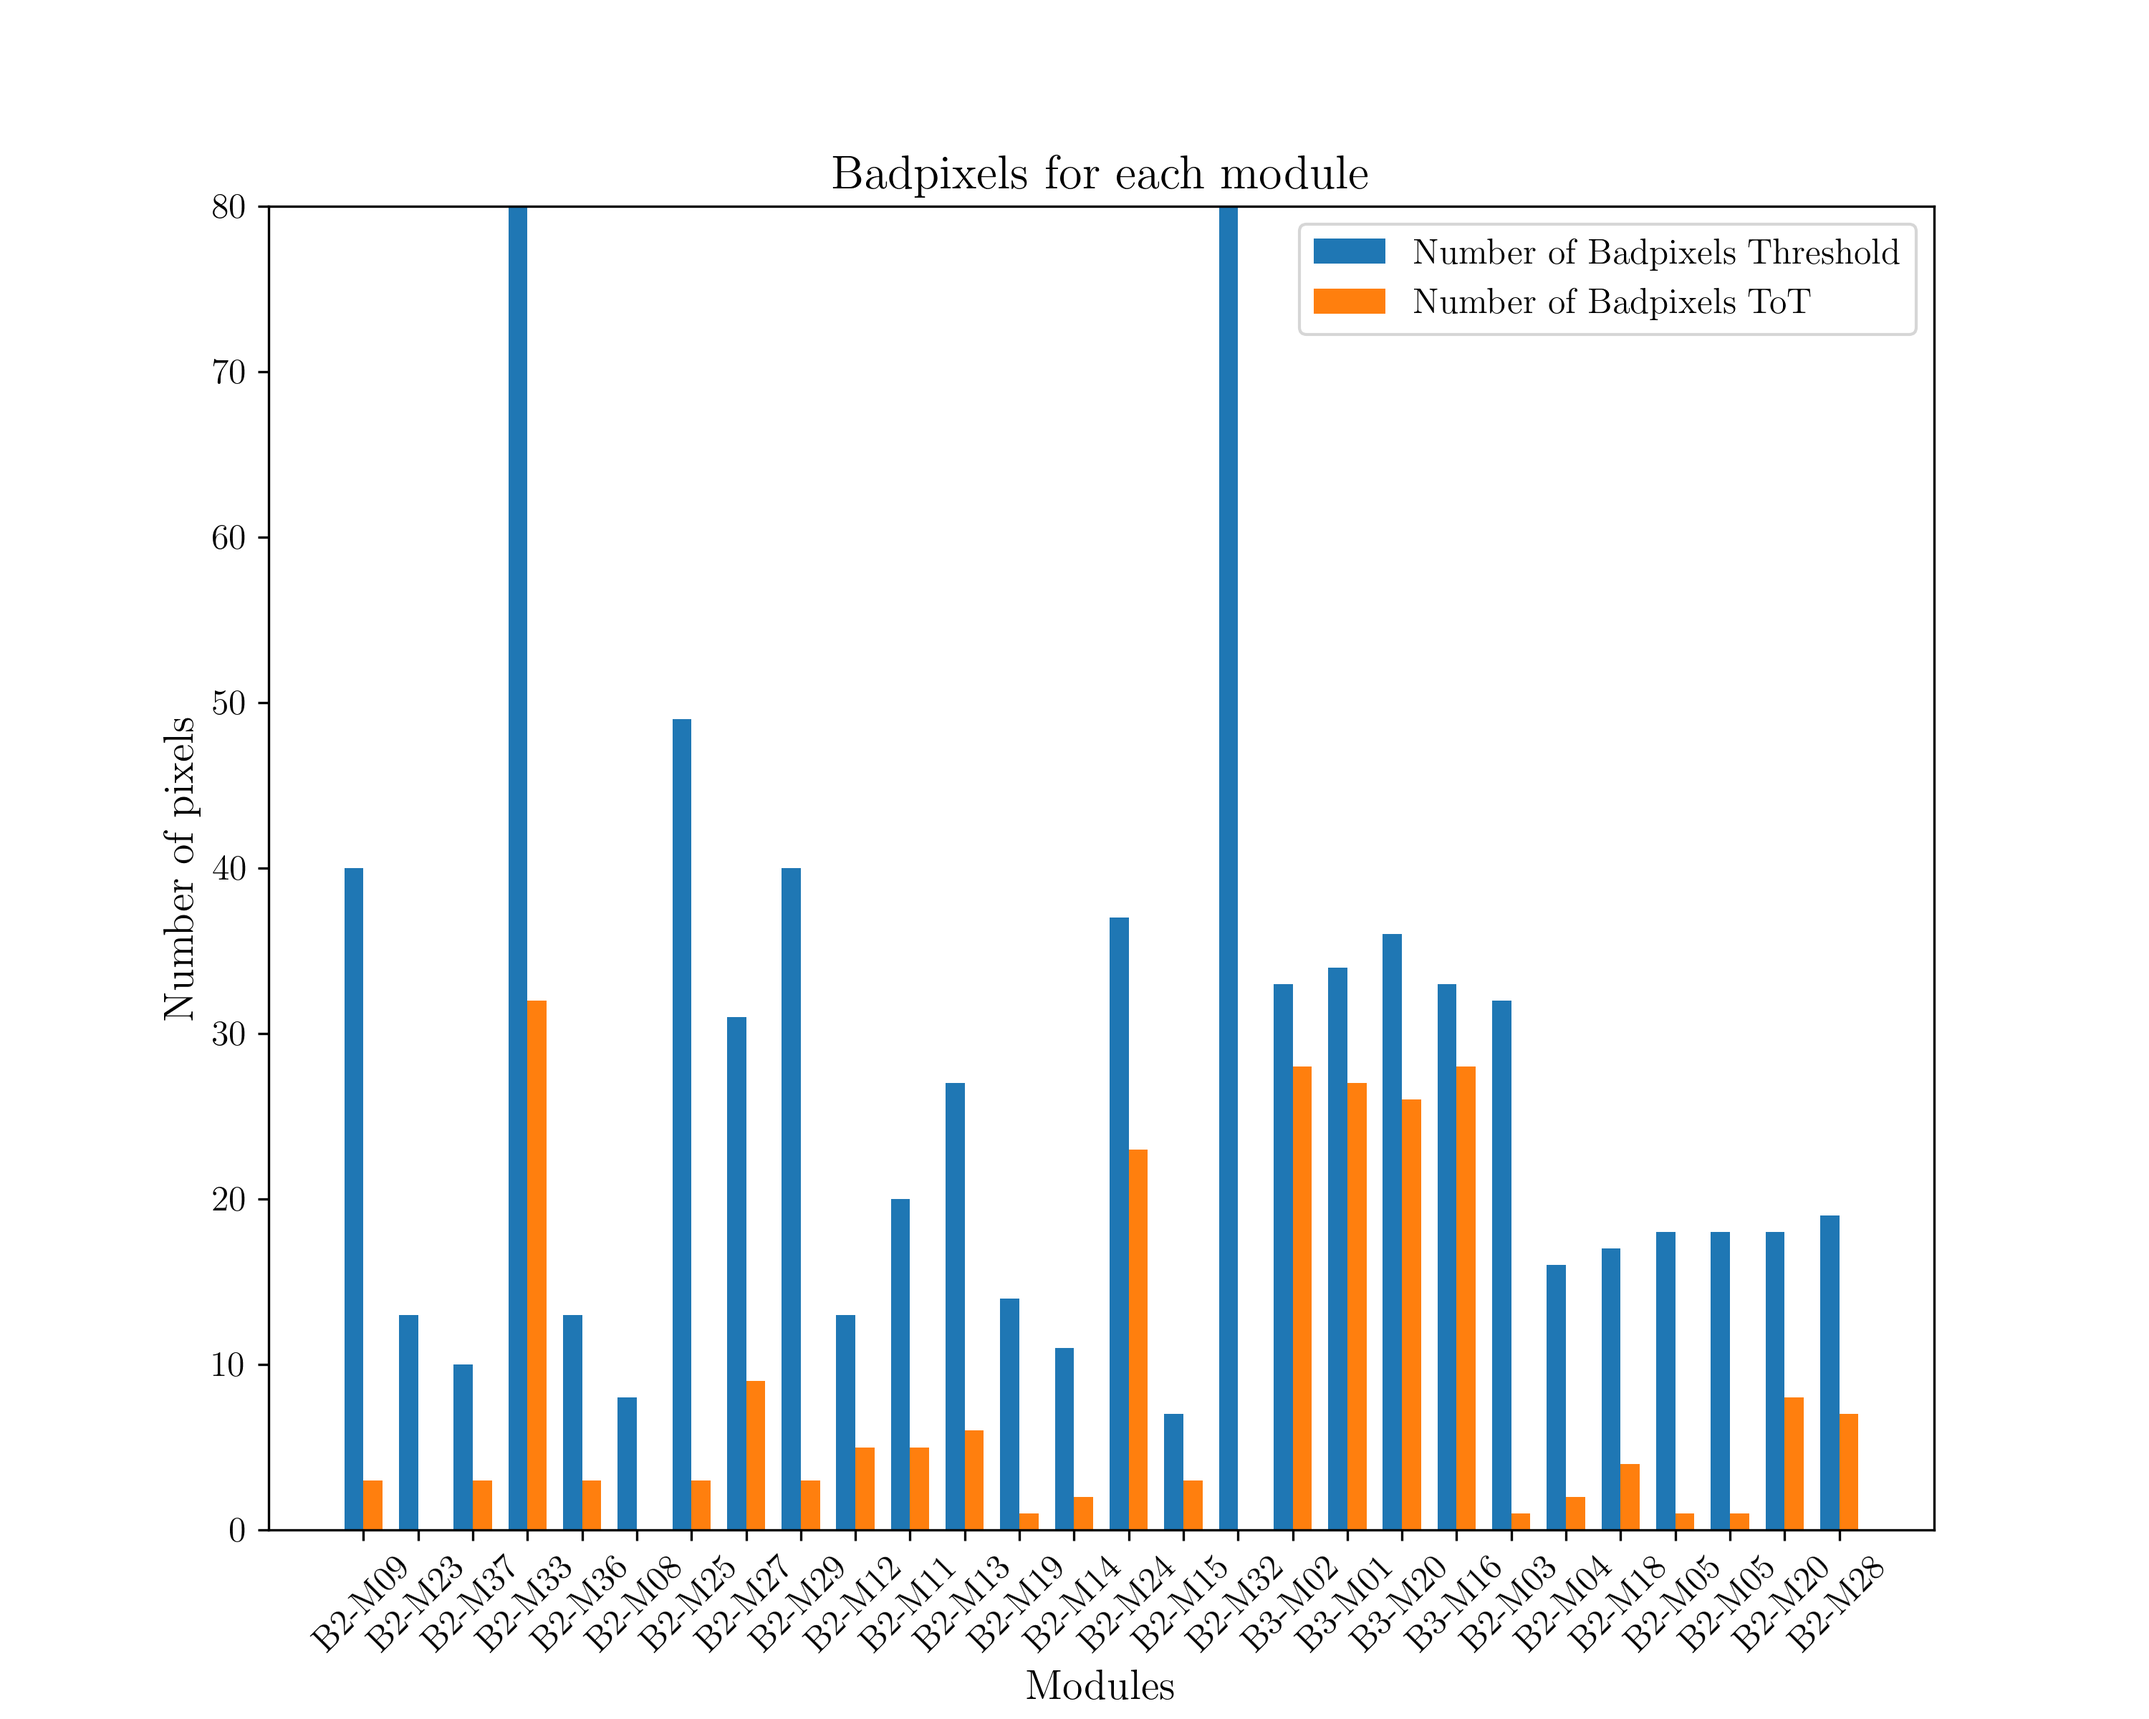
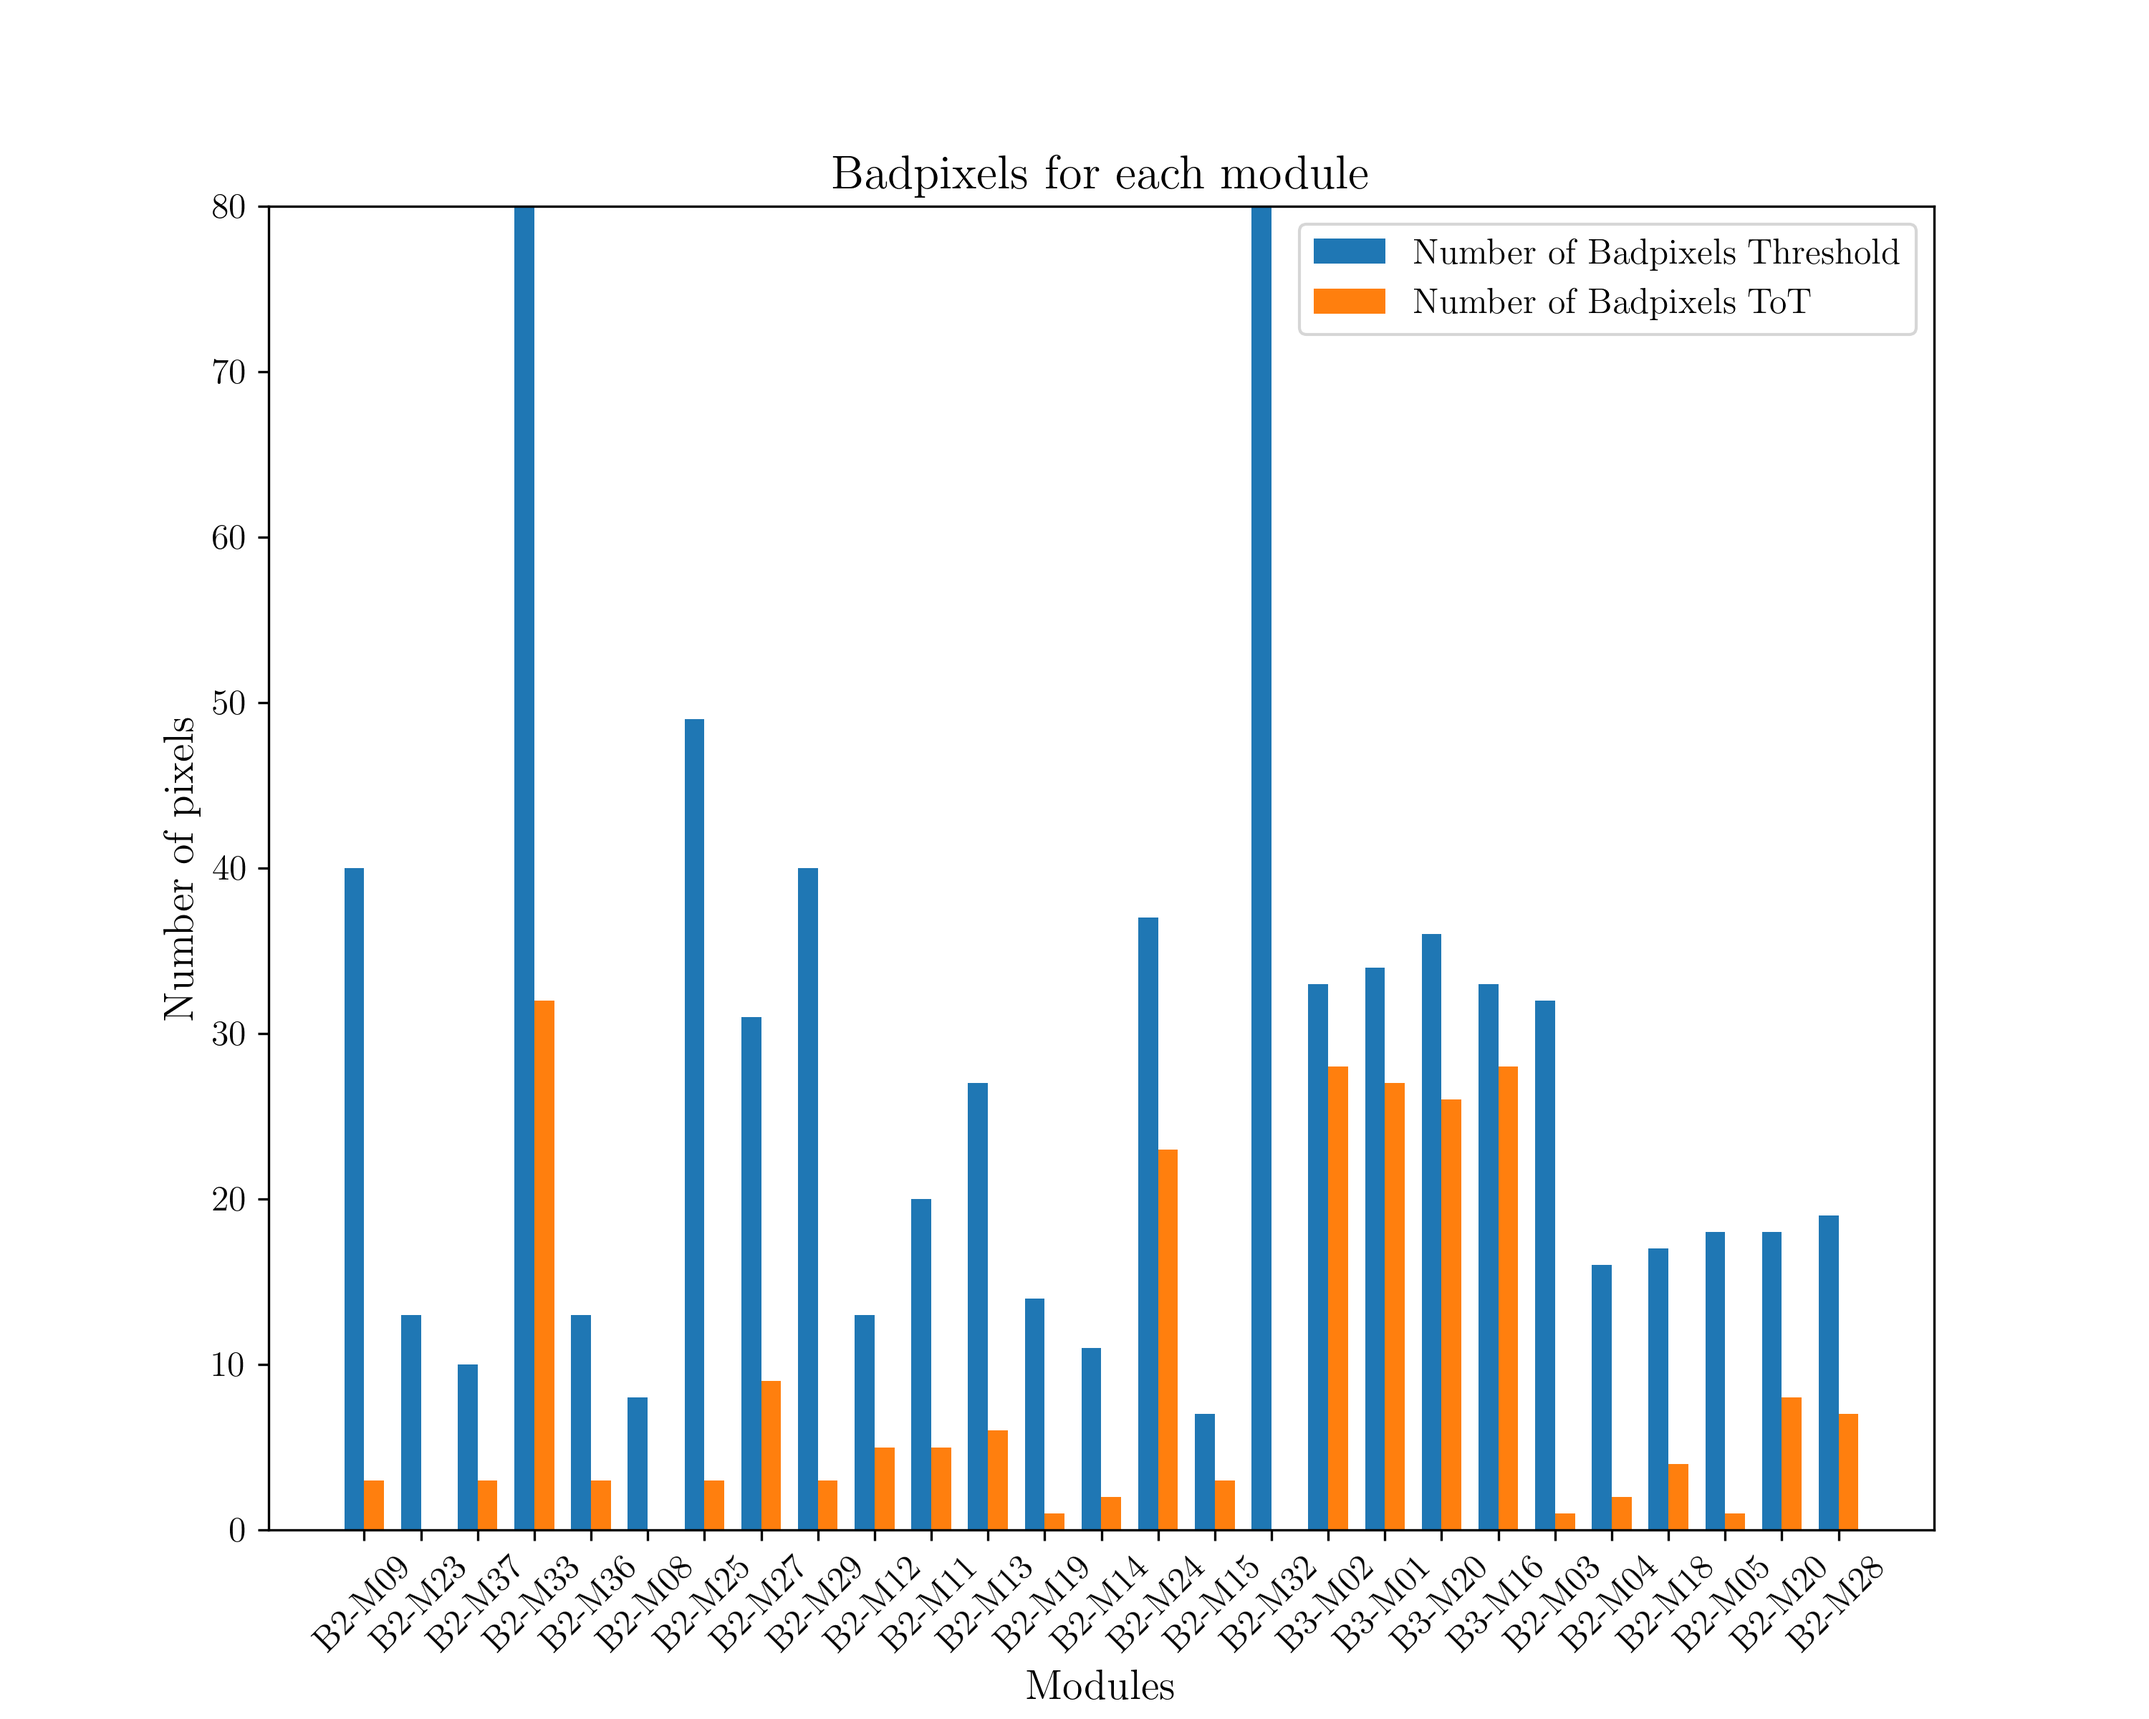
Changed ploting functions, now you can sort chips and plot them in the same order

Changed region(s): [[0.155, 0.125, 0.868, 0.9688]]

diff --git a/sitgui/anlysis_scripts/group_bad_pixles.py b/sitgui/anlysis_scripts/group_bad_pixles.py
@@ -1,0 +1,56 @@
+import matplotlib.pyplot as plt
+import pandas as pd
+import numpy as np
+
+# Read chip names from file
+with open('chips.txt', 'r') as f:
+    chip_names = [line.strip() for line in f.readlines()]
+
+# Use latex font
+plt.rc('text', usetex=True)
+plt.rc('font', family='serif')
+
+# Create a larger figure
+fig, ax = plt.subplots(figsize=(10, 8))
+
+# Initialize lists to hold the data
+value1 = []
+value2 = []
+
+# Loop over chip names and gather data
+for chip in chip_names:
+    # Read specific lines for the chip
+    with open(f'../SiT_testing/{chip}_ANLYSIS/stats_{chip}.txt', 'r') as f:
+        lines = f.readlines()
+        value1.append(float(lines[4].split(":")[1].strip()))  # Assuming that "line 4" means index 3 in Python
+        value2.append(float(lines[9].split(":")[1].strip()))  # Assuming that "line 8" means index 7 in Python
+
+# Define bar width
+bar_width = 0.35
+index = np.arange(len(chip_names))
+
+# Add bars for value 1 and value 2
+bar1 = ax.bar(index, value1, bar_width, label='Number of Badpixels Threshold')
+bar2 = ax.bar(index + bar_width, value2, bar_width, label='Number of Badpixels ToT')
+
+# Add labels and title
+ax.set_xlabel('Modules', fontsize=14)
+ax.set_ylabel('Number of pixels', fontsize=14)
+ax.set_title('Badpixels for each module', fontsize=16)
+
+# Set Y-axis limit
+ax.set_ylim([0, 80])  # adjust as necessary
+
+# Add xticks - on the 'index' position, we place the corresponding chip name
+ax.set_xticks(index + bar_width / 2)
+ax.set_xticklabels(chip_names, rotation=45)
+
+# Add legend
+ax.legend(fontsize=12)
+
+# Increase tick label size
+ax.tick_params(axis='both', which='major', labelsize=12)
+
+# Save figure
+plt.savefig('../SiT_testing/all_modules_anlysis/sensor_badpixels_values.png', dpi=300)
+

diff --git a/sitgui/anlysis_scripts/group_iv.py b/sitgui/anlysis_scripts/group_iv.py
@@ -1,0 +1,52 @@
+import matplotlib.pyplot as plt
+import pandas as pd
+import numpy as np
+
+# Read chip names from file
+with open('chips.txt', 'r') as f:
+    chip_names = [line.strip() for line in f.readlines()]
+
+# Use latex font
+#plt.rc('text', usetex=True)
+#plt.rc('font', family='serif')
+
+# Create a larger figure
+fig, ax = plt.subplots(figsize=(14, 12))
+
+# Cycle through colors for each plot
+color_cycle = plt.rcParams['axes.prop_cycle'].by_key()['color']
+
+# Loop over chip names and plot data
+for i, chip in enumerate(chip_names):
+    # Read data for chip
+    data = pd.read_csv(f'../SiT_testing//{chip}/iv_data.txt', sep='\s+', header=None, names=['Voltage', 'Current'])
+
+    # Plot data with thicker lines
+    ax.plot(data['Voltage'], data['Current'], label=chip, color=color_cycle[i % len(color_cycle)], linewidth=2.0)
+
+    # Add scatter plot
+    ax.scatter(data['Voltage'], data['Current'], color=color_cycle[i % len(color_cycle)], alpha=0.3)
+
+# Add complementary level line
+ax.axhline(y=0.5, color='r', linestyle=':', label='cmpl level batch1')
+ax.axhline(y=0.25, color='r', linestyle=':', label='cmpl level batch2')
+
+# Set labels and title
+ax.set_xlabel('Voltage [V]', fontsize=14)
+ax.set_ylabel('Current [mA]', fontsize=14)
+ax.set_title('Compare IV curve', fontsize=24)
+
+# Add legend
+#ax.legend(fontsize=12)
+# Place the legend to the right of the plot
+ax.legend(loc='upper left', bbox_to_anchor=(1, 1))
+
+# Adjust the layout so that the plot is fit inside its area
+plt.tight_layout()
+
+# Increase tick label size
+ax.tick_params(axis='both', which='major', labelsize=12)
+
+# Save figure
+plt.savefig('../SiT_testing/all_modules_anlysis/iv_combined.png',dpi = 400)
+

diff --git a/sitgui/sit_anlysis.py b/sitgui/sit_anlysis.py
@@ -5,7 +5,10 @@ from PySide6.QtWidgets import (QApplication, QLabel, QMainWindow, QPushButton, Q
 from PySide6.QtGui import QPixmap, QColor, QAction, QIcon
 from PySide6.QtCore import Qt
 import pandas as pd
+import subprocess
 
+def run_python_file(filename):
+    subprocess.run(["python3", filename])
 
 
 class ClickableTableWidget(QTableWidget):
@@ -189,7 +192,6 @@ class MainWindow(QMainWindow):
         revert_table_action = QAction("Revert to Original Table", self.tests_with_biased_voltage_menu)
         self.tests_with_biased_voltage_menu.addAction(revert_table_action)
         revert_table_action.triggered.connect(self.revert_to_original_table)
-       
         
         self.combined_module_analysis_menu = QMenu("Combined Module Analysis")
         self.menuBar().addMenu(self.combined_module_analysis_menu)
@@ -305,11 +307,13 @@ class MainWindow(QMainWindow):
 
     def on_combined_iv_curves(self):
         # Display the combined IV curves picture
+        run_python_file('anlysis_scripts/group_iv.py')
         self.image_window = ImageWindowcombined("../SiT_testing/all_modules_anlysis/iv_combined.png")
         self.image_window.show()
 
     def on_badpixels_comparison(self):
         # Display the bad pixels comparison picture
+        run_python_file('anlysis_scripts/group_bad_pixles.py')
         self.image_window = ImageWindowcombined("../SiT_testing/all_modules_anlysis/sensor_badpixels_values.png")
         self.image_window.show()
     def export_to_excel(self):
